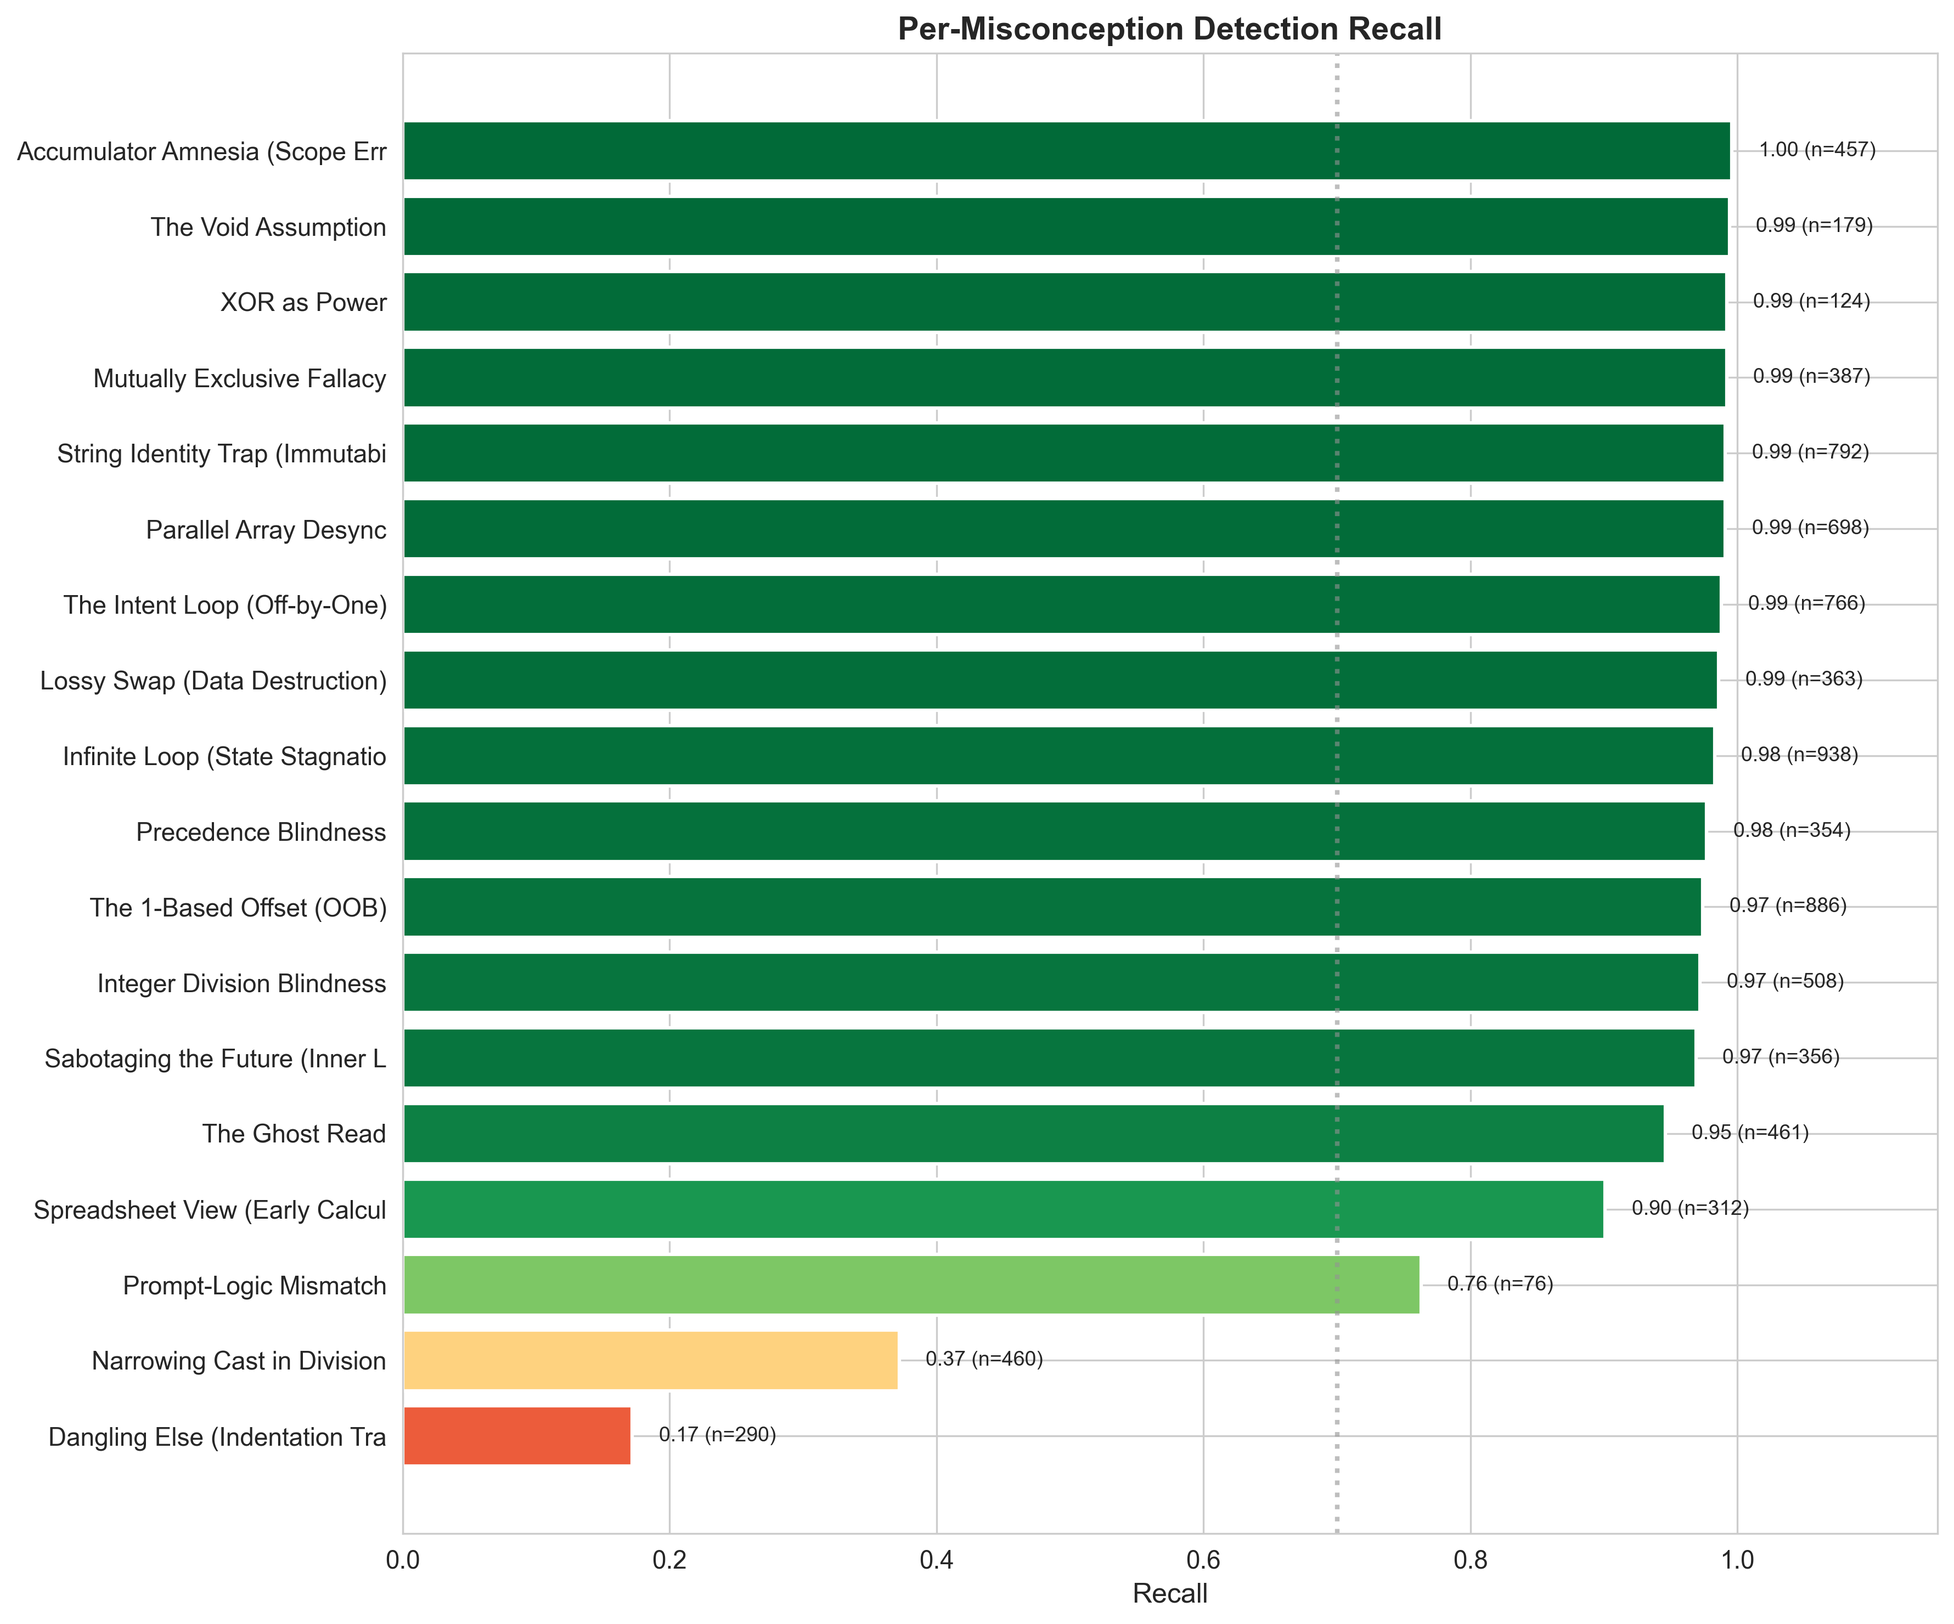
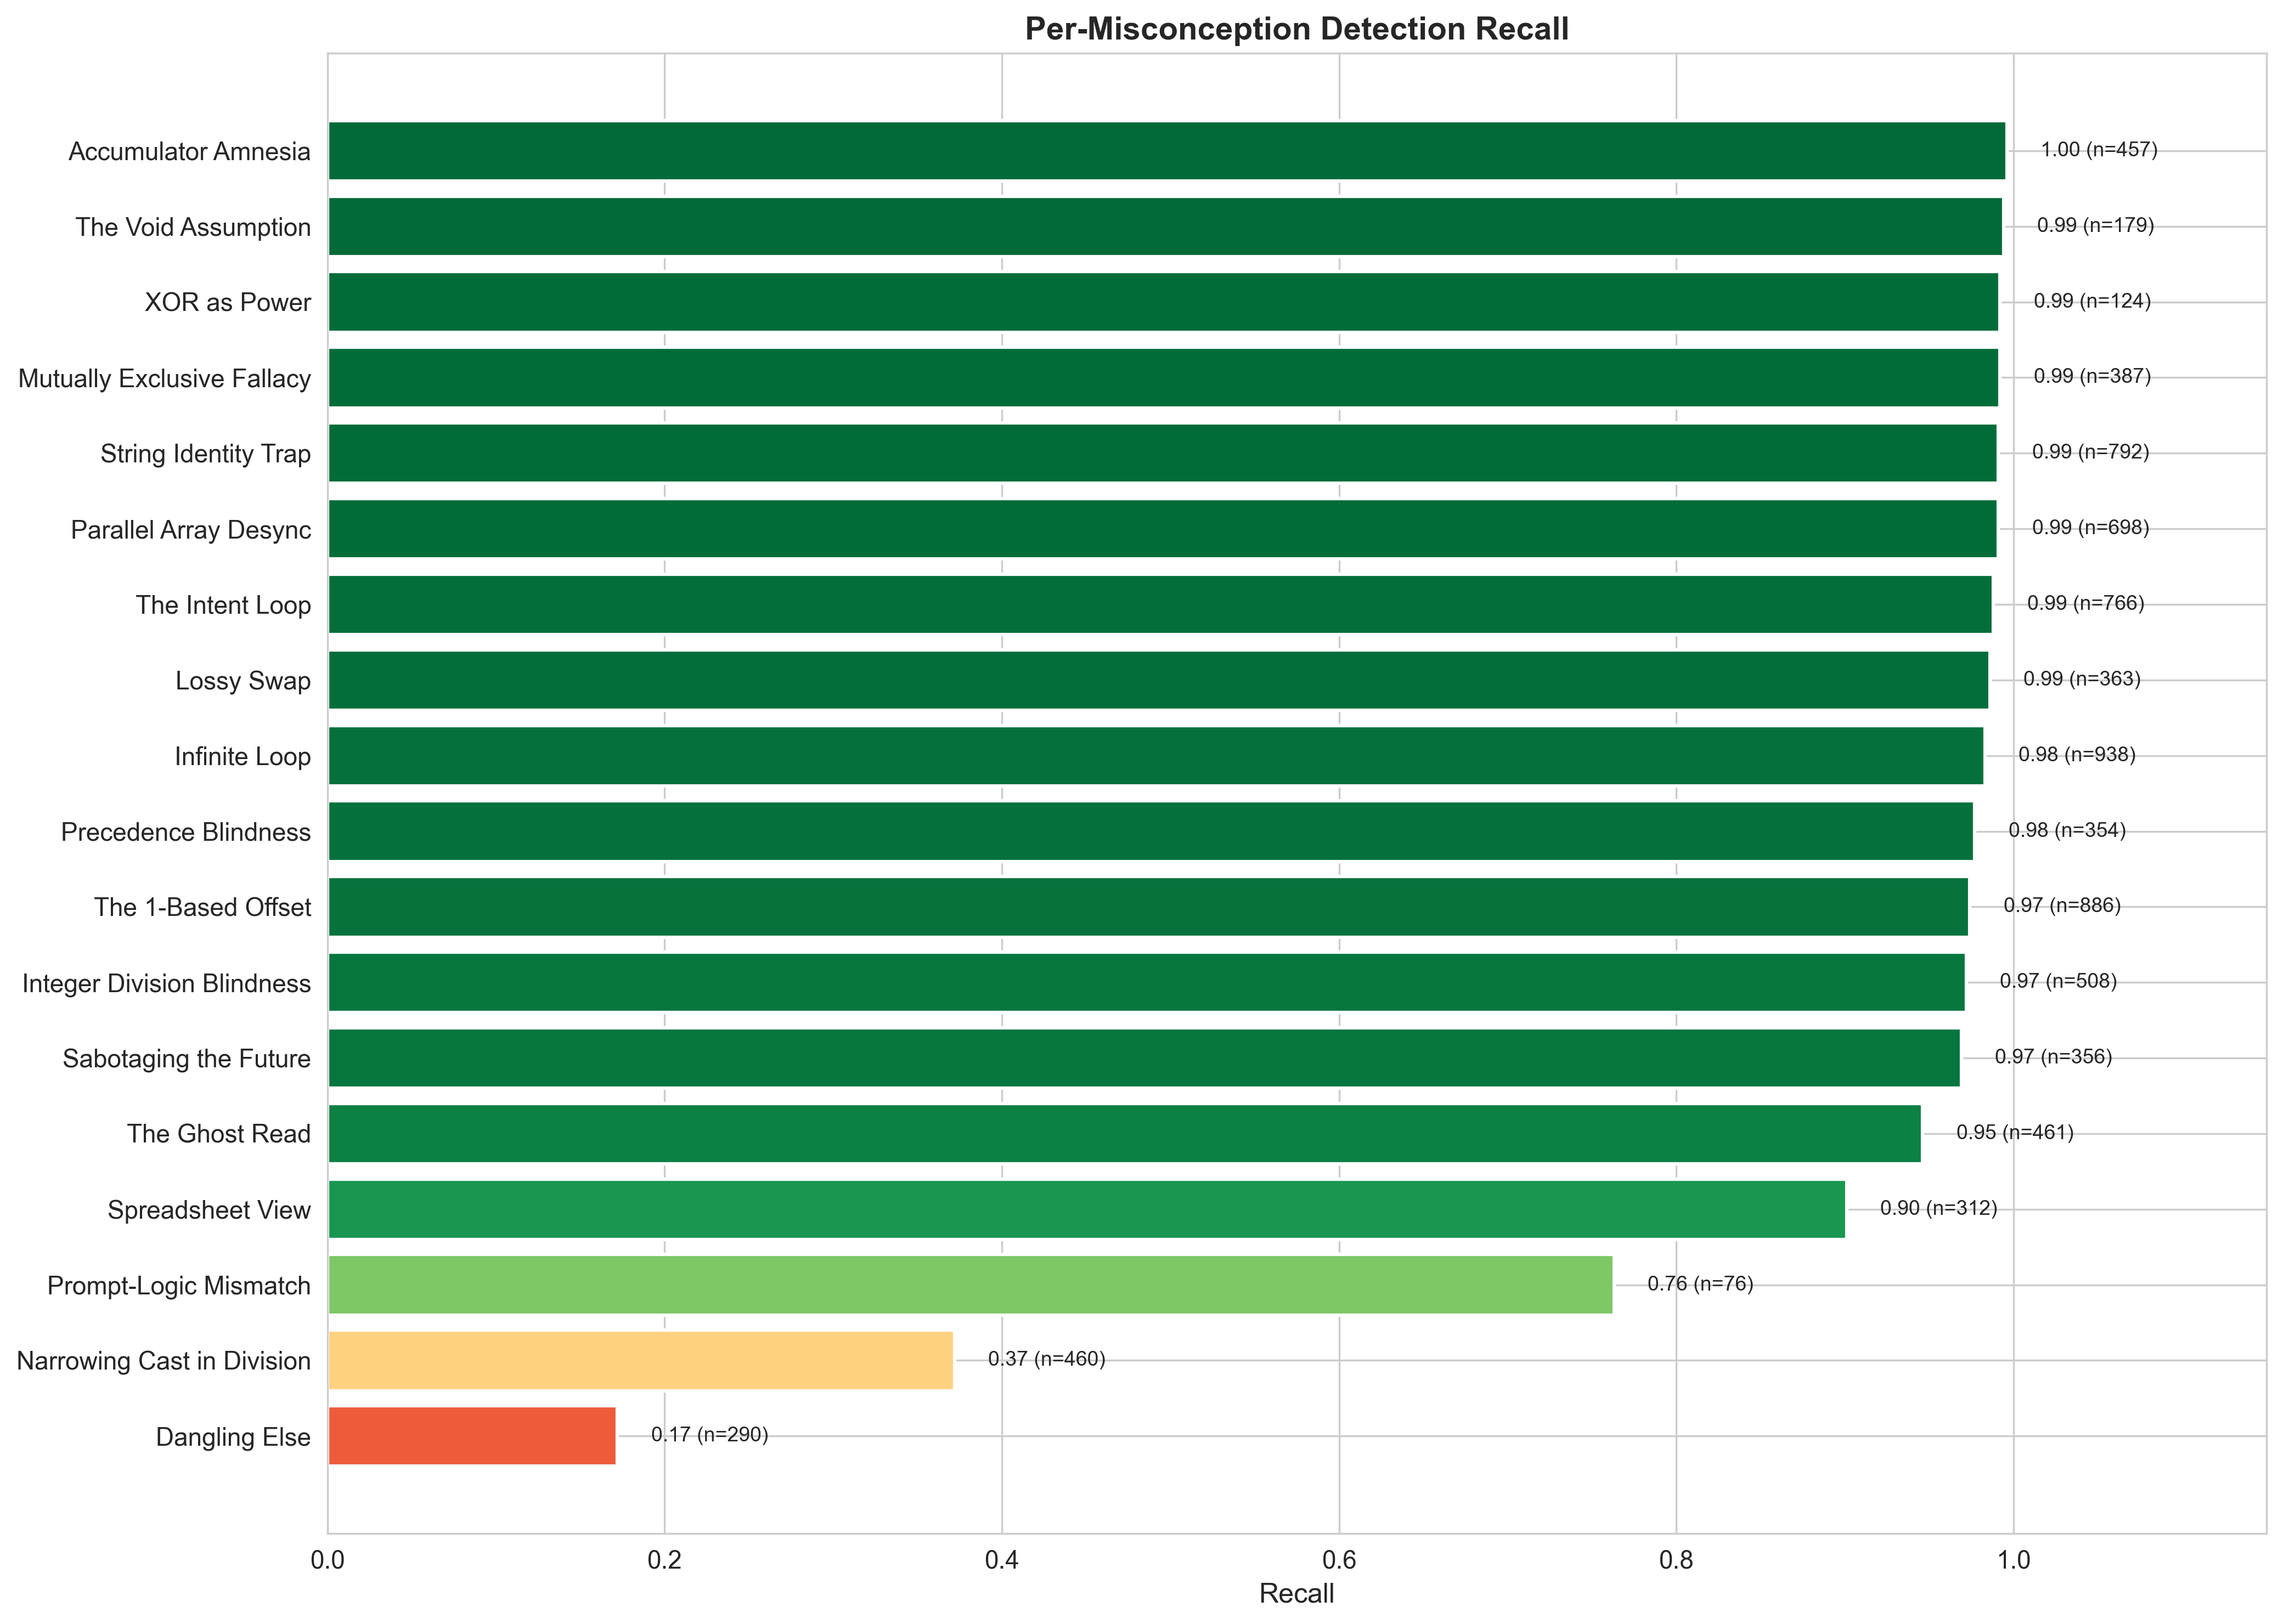
Clean up chart visualizations: remove diagnostic ceiling lines, simplify model name labels, and clean misconception names

diff --git a/analyze.py b/analyze.py
@@ -1190,23 +1190,6 @@ def generate_threshold_sensitivity_heatmap(
         cbar_kws={"label": "F1 Score"},
     )
 
-    # Highlight optimal cell with a bold rectangular border
-    opt_sem = optimal_config.get("semantic_threshold")
-    opt_noise = optimal_config.get("noise_floor")
-    if opt_sem and opt_noise:
-        col_idx = list(pivot.columns).index(opt_sem)
-        row_idx = list(pivot.index).index(opt_noise)
-        ax.add_patch(
-            Rectangle(
-                (col_idx, row_idx),
-                1,
-                1,
-                fill=False,
-                edgecolor=CB_RED_SAFE,
-                linewidth=2,
-                zorder=10,
-            )
-        )
 
     ax.set_xlabel("Semantic Similarity Threshold")
     ax.set_ylabel("Noise Floor Threshold")
@@ -1621,14 +1604,14 @@ def generate_model_dotplot(
     # Shorten model names
     def shorten_model_name(name: str) -> str:
         name = str(name).split("/")[-1]
-        # Reasoning models get [Reasoning] suffix, standard models get [Standard]
+        # Reasoning models get [Reasoning] suffix, standard models have no suffix
         replacements = {
             "claude-haiku-4-5-20251001:reasoning": "Claude-Haiku-4.5 [Reasoning]",
-            "claude-haiku-4-5-20251001": "Claude-Haiku-4.5 [Standard]",
+            "claude-haiku-4-5-20251001": "Claude-Haiku-4.5",
             "gemini-3-flash-preview:reasoning": "Gemini-3-Flash [Reasoning]",
-            "gemini-3-flash-preview": "Gemini-3-Flash [Standard]",
+            "gemini-3-flash-preview": "Gemini-3-Flash",
             "gpt-5.2-2025-12-11:reasoning": "GPT-5.2 [Reasoning]",
-            "gpt-5.2-2025-12-11": "GPT-5.2 [Standard]",
+            "gpt-5.2-2025-12-11": "GPT-5.2",
         }
         for old, new in replacements.items():
             if old in name:
@@ -1781,11 +1764,11 @@ def generate_enhanced_heatmap(
         # Check reasoning variants FIRST (longer strings) to avoid substring false matches
         replacements = {
             "claude-haiku-4-5-20251001:reasoning": "Haiku-4.5 [R]",
-            "claude-haiku-4-5-20251001": "Haiku-4.5 [S]",
+            "claude-haiku-4-5-20251001": "Haiku-4.5",
             "gemini-3-flash-preview:reasoning": "Gemini-3 [R]",
-            "gemini-3-flash-preview": "Gemini-3 [S]",
+            "gemini-3-flash-preview": "Gemini-3",
             "gpt-5.2-2025-12-11:reasoning": "GPT-5.2 [R]",
-            "gpt-5.2-2025-12-11": "GPT-5.2 [S]",
+            "gpt-5.2-2025-12-11": "GPT-5.2",
         }
         for old, new in replacements.items():
             if old in name:
@@ -2002,8 +1985,6 @@ def generate_structural_semantic_bars(
     ]
     ax.legend(handles=legend_elements, loc="lower right", fontsize=11)
 
-    # Add diagnostic ceiling line
-    ax.axvline(x=0.7, color="gray", linestyle=":", linewidth=2, alpha=0.5)
 
     plt.tight_layout()
     path = assets_dir / "category_structural_vs_semantic.png"
@@ -2180,11 +2161,6 @@ def generate_strategy_performance_chart(
     ax.legend(loc="upper right", fontsize=11, framealpha=0.95)
     ax.grid(axis="y", alpha=0.3, linestyle="--", linewidth=0.8)
 
-    # Add diagnostic ceiling line at 0.7
-    ax.axhline(y=0.7, color=CB_GRAY, linestyle=":", linewidth=2, alpha=0.5)
-
-    # Add visual separator between structural and semantic groups
-    ax.axvline(x=2.5, color="black", linestyle="-", linewidth=1.5, alpha=0.3)
 
     plt.tight_layout()
     path = assets_dir / "strategy_comparison.png"
@@ -2435,14 +2411,14 @@ def generate_model_bars(
     # Shorten model names and mark reasoning models
     def shorten_model_name(name: str) -> str:
         name = str(name).split("/")[-1]
-        # Reasoning models get [Reasoning] suffix, standard models get [Standard]
+        # Reasoning models get [Reasoning] suffix, standard models have no suffix
         replacements = {
             "claude-haiku-4-5-20251001:reasoning": "Claude-Haiku-4.5 [Reasoning]",
-            "claude-haiku-4-5-20251001": "Claude-Haiku-4.5 [Standard]",
+            "claude-haiku-4-5-20251001": "Claude-Haiku-4.5",
             "gemini-3-flash-preview:reasoning": "Gemini-3-Flash [Reasoning]",
-            "gemini-3-flash-preview": "Gemini-3-Flash [Standard]",
+            "gemini-3-flash-preview": "Gemini-3-Flash",
             "gpt-5.2-2025-12-11:reasoning": "GPT-5.2 [Reasoning]",
-            "gpt-5.2-2025-12-11": "GPT-5.2 [Standard]",
+            "gpt-5.2-2025-12-11": "GPT-5.2",
         }
         for old, new in replacements.items():
             if old in name:
@@ -2509,8 +2485,6 @@ def generate_model_bars(
     ax.set_xlim(0, 1.05)
     ax.legend(loc="lower right", fontsize=11)
     ax.grid(axis="x", alpha=0.3)
-    ax.axvline(x=0.5, color=CB_GRAY, linestyle="--", alpha=0.3)
-    ax.axvline(x=0.7, color=CB_GRAY, linestyle="--", alpha=0.3)
 
     plt.tight_layout()
     path = assets_dir / "model_comparison.png"
@@ -2574,12 +2548,16 @@ def generate_publication_charts(
     if not seeded.empty:
         gt_map = {g["id"]: g for g in groundtruth}
         by_mis = metrics_by_group(seeded, ["expected_id"])
-        by_mis["name"] = by_mis["expected_id"].apply(
-            lambda x: gt_map.get(x, {}).get("name", x)[:30]
-        )
+        # Get name without parenthetical content (no truncation)
+        import re
+        def clean_name(x):
+            full_name = gt_map.get(x, {}).get("name", x)
+            # Remove parenthetical content like "(Scope Error)" or "(Off-by-One)"
+            return re.sub(r'\s*\([^)]*\)', '', full_name).strip()
+        by_mis["name"] = by_mis["expected_id"].apply(clean_name)
         by_mis = by_mis.sort_values("recall")
 
-        fig, ax = plt.subplots(figsize=(12, 10))
+        fig, ax = plt.subplots(figsize=(14, 10))  # Wider figure for longer names
 
         # Use simple RdYlGn gradient (not colorblind-friendly)
         from matplotlib import cm
@@ -2595,10 +2573,6 @@ def generate_publication_charts(
         ax.set_title("Per-Misconception Detection Recall", fontsize=14, fontweight="bold")
         ax.set_xlim(0, 1.15)
 
-        # Add diagnostic ceiling line
-        ax.axvline(
-            0.7, color=CB_GRAY, linestyle=":", linewidth=2, alpha=0.6, label="Diagnostic Ceiling"
-        )
 
         for i, (_, row) in enumerate(by_mis.iterrows()):
             n = int(row["tp"] + row["fn"])

diff --git a/runs/multi/run_iticse_final/report.md b/runs/multi/run_iticse_final/report.md
@@ -2,7 +2,7 @@
 
 ## Taxonomic Research of Aligned Cognitive Error Recognition
 
-_Generated: 2026-01-05T14:23:32.816742+00:00_
+_Generated: 2026-01-05T14:43:14.963500+00:00_
 
 ---
 
